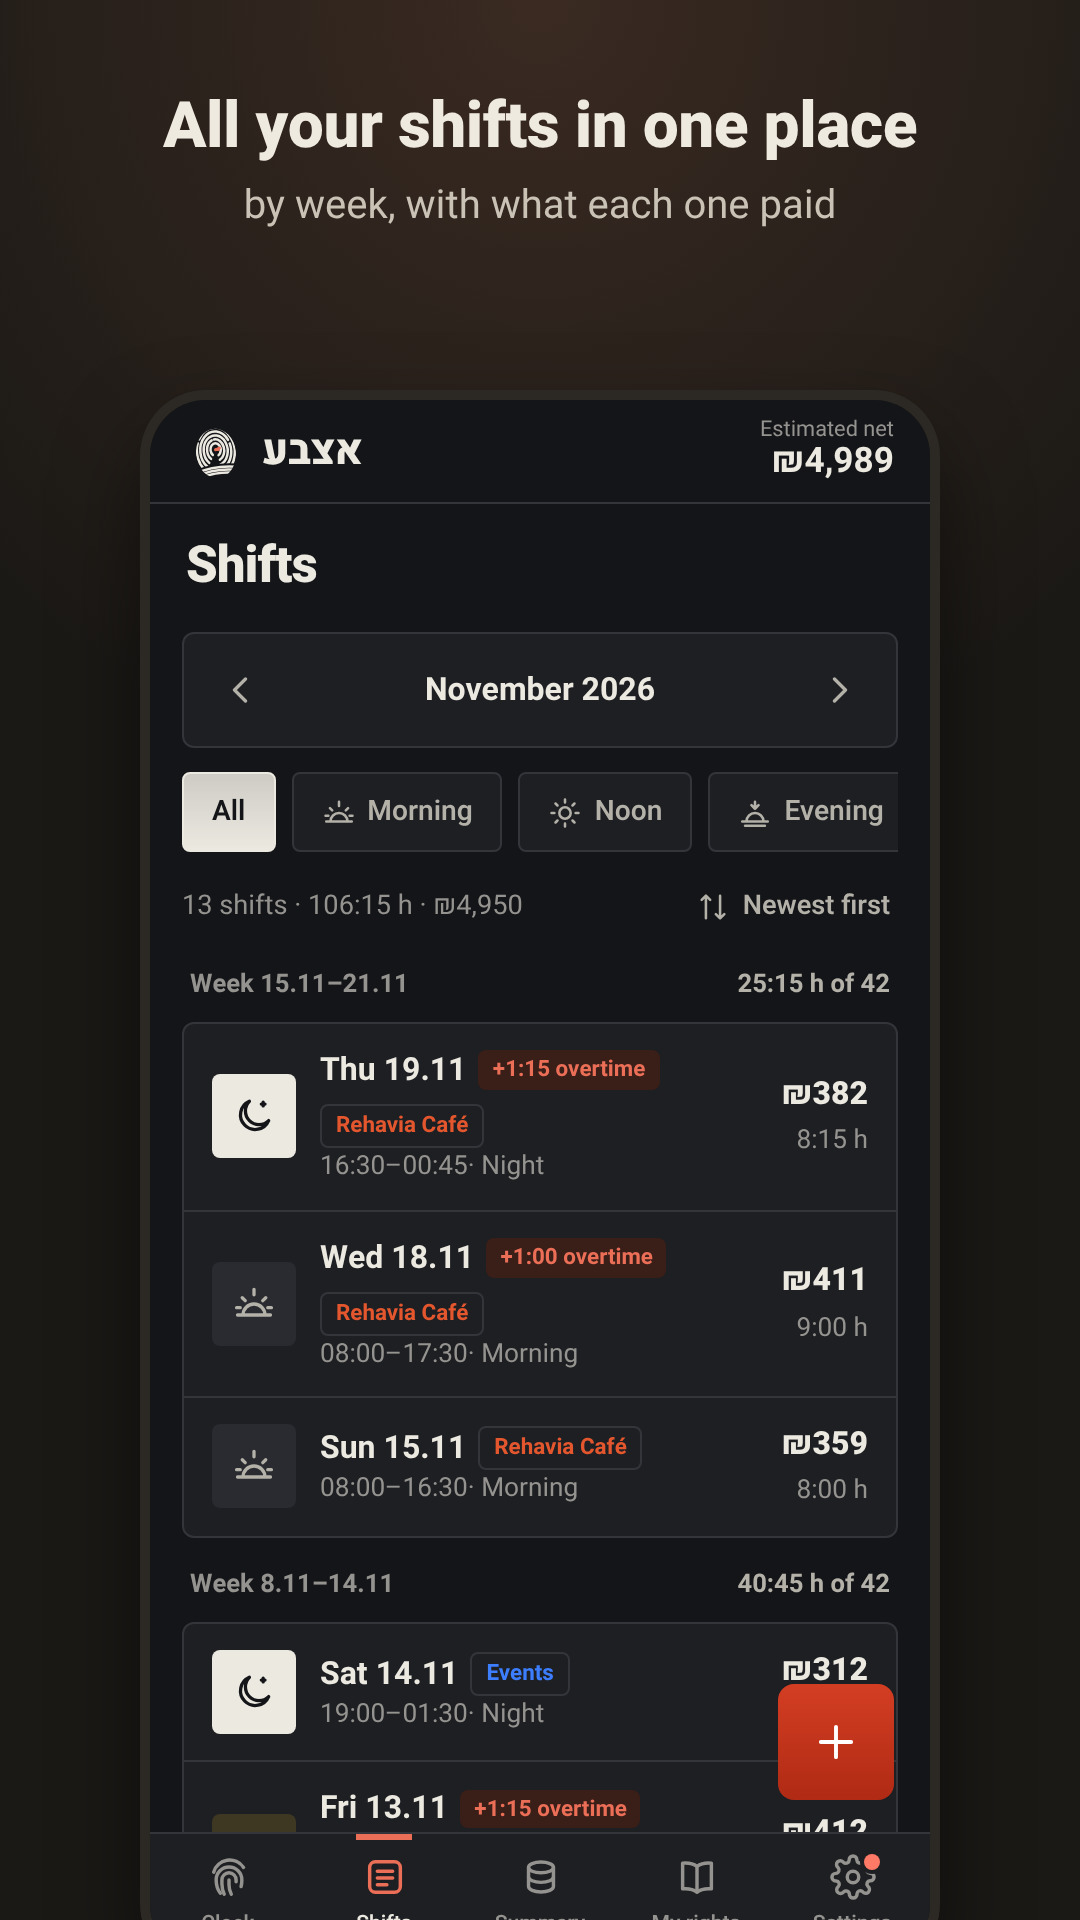
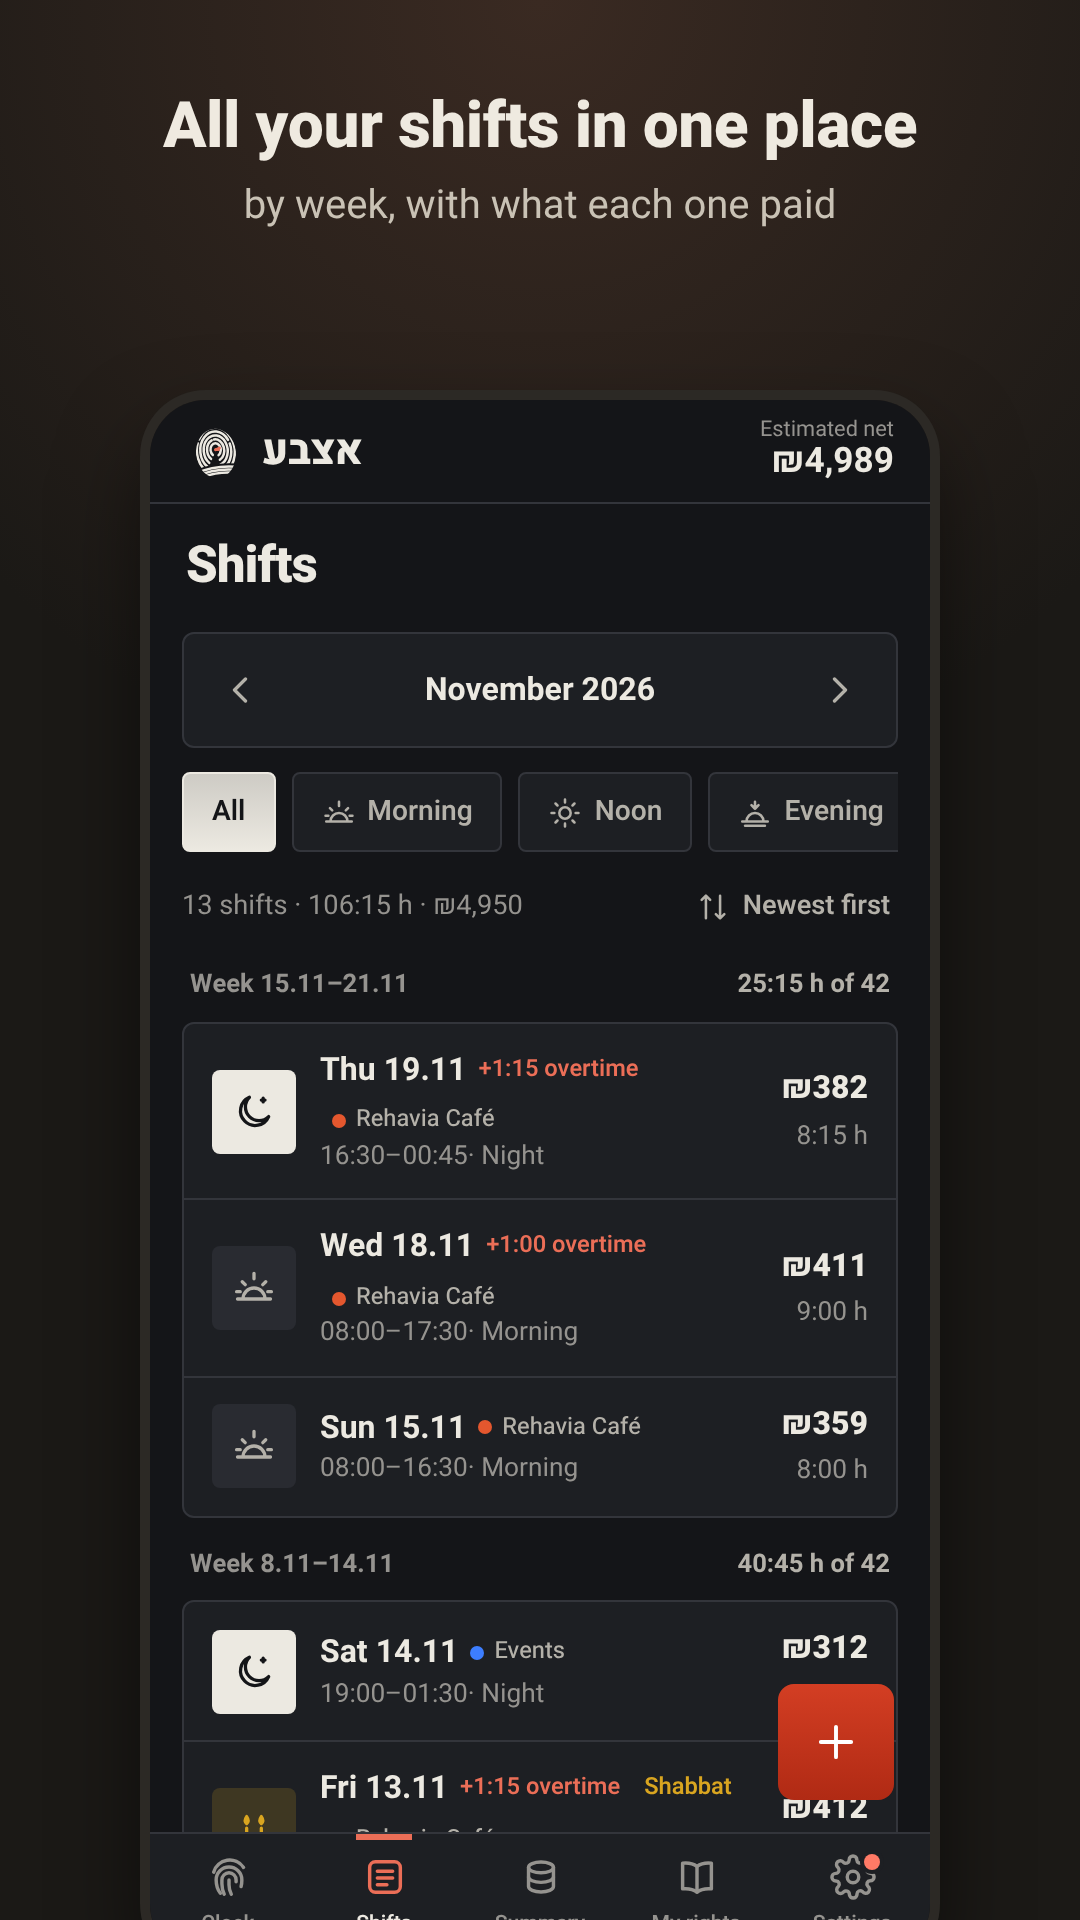
Labels as plain text instead of badges; feature graphic without badges

diff --git a/style.css b/style.css
@@ -741,3 +741,17 @@ main{padding-bottom:calc(var(--tab-h) + 110px + var(--safe-area-inset-bottom,env
 button.estimate{font-family:inherit;cursor:pointer;background:none;color:inherit}
 .legal .cell>svg{width:20px;height:20px;flex:none;color:var(--ink3);align-self:flex-start;margin-top:3px}
 .btnrow a.btn{text-decoration:none}
+
+/* ---- labels are words, not badges: no pill backgrounds or boxes anywhere ---- */
+.tier,.tier.ot,.tier.rest,.tier.plain,.tier.warn,.pill,.pill.ot,.pill.rest,.pill.jobp{background:none!important;border:0!important;box-shadow:none!important;padding:0!important;border-radius:0!important}
+.tier{gap:7px;margin-top:14px;font-size:.9rem;font-weight:600;letter-spacing:.005em}
+.tier svg{width:17px;height:17px;flex:none}
+.tier.plain{color:var(--ink2);font-weight:500}
+.tier.warn{text-decoration:underline;text-underline-offset:3px;text-decoration-thickness:1px}
+.pill{font-size:.74rem;font-weight:600;gap:5px}
+.pill+.pill{margin-inline-start:6px}
+.pill.jobp{color:var(--ink2)!important;font-weight:500}
+.pill.jobp i{width:7px;height:7px;border-radius:50%;flex:none}
+.pill.ot{color:var(--accent-ink,var(--accent))!important}
+.estimate,button.estimate{border:0!important;padding:0!important;margin-inline-start:6px;font-size:.78em!important;font-weight:500!important;color:var(--ink3)!important;letter-spacing:0!important;vertical-align:baseline!important;background:none!important}
+.estimate::before{content:'· '}

diff --git a/js/app.js b/js/app.js
@@ -246,7 +246,7 @@ function shiftRow(s) {
   const pills = [
     p.otHours > 0.01 ? `<span class="pill ot">+${hm(p.otHours)} נוספות</span>` : '',
     p.restHours > 0.01 ? `<span class="pill rest">${esc(p.names[0])}</span>` : '',
-    S.jobs.length > 1 ? `<span class="pill jobp" style="color:${job.color}">${esc(job.name)}</span>` : '',
+    S.jobs.length > 1 ? `<span class="pill jobp"><i style="background:${job.color}"></i>${esc(job.name)}</span>` : '',
   ].join('');
   return `<button class="srow" data-id="${s.id}">
     <span class="kic k-${k}" title="${KIND_NAME[k]}">${I[k]}</span>
